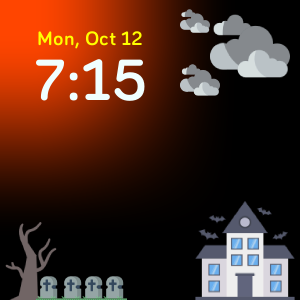
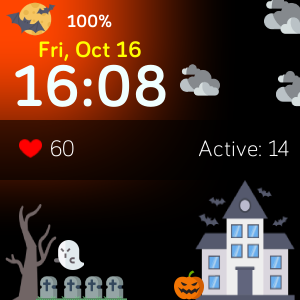
stats added to clock

diff --git a/app/index.js b/app/index.js
@@ -3,6 +3,7 @@ import document from "document";
 import { preferences } from "user-settings";
 import * as util from "../common/utils";
 
+
 // Update the clock every second
 clock.granularity = "seconds";
 
@@ -33,8 +34,21 @@ clock.ontick = (evt) => {
 
   
 }
-                                     
-                                       
+                                                                            
+//Handle the <Text> element, and the line
+const powerLabel = document.getElementById("powerLabel");
+
+//Refresh the battery, so that everything will work
+function refresh_myPower() {
+  //Show the current charge 
+  var power = battery.chargeLevel
+    powerLabel.text = power + "%"  
+         
+  }
+;
+
+setInterval(refresh_myPower, 1000);
+
 
 //HR sensor
 import { HeartRateSensor } from "heart-rate";
@@ -52,11 +66,101 @@ import * as util from "../common/utils";
 import { preferences } from "user-settings";
 import * as battery from "battery"
 
-
 //Text Elements
 let myHR = document.getElementById("myHR");
 let mySteps = document.getElementById("mySteps");
+let myCalories = document.getElementById("myCalories");
+let myAzm = document.getElementById("myAzm")
+let myFloors = document.getElementById("myFloors")
 let myTime = document.getElementById("myTime")
 let myDate = document.getElementById("myDate")
+let powerLabel = document.getElementById("powerLabel")
+
+//Cycle View JS
+import document from "document";
+
+// Get a handle on the cycleview
+const statsCyle = document.getElementById("statsCyle");
+
+// Get an array of cycle-items
+const items = statsCyle.getElementsByClassName("cycle-item");
+
+// How many items
+console.log(items.length);
+
+// Select a specific item by index
+statsCyle.value = 3;
+
+// Get the current selected item index
+console.log(statsCyle.value);
+
+// Hide a specific item by index
+items[2].style.display = "none";
 
 
+//--- Add step monitor
+function refresh_mySteps() {
+mySteps.text = "Steps: " + today.adjusted.steps
+  
+};
+
+setInterval(refresh_mySteps, 100); 
+
+// Add calories
+function refresh_myCalories() {
+  myCalories.text = "Calories: " + today.adjusted.calories 
+}; 
+
+setInterval(refresh_myCalories, 100);
+
+
+//Add floors
+function refresh_myelevationGain() {
+  myFloors.text = "Floors: " + today.adjusted.elevationGain 
+};
+
+setInterval(refresh_myelevationGain, 20);
+
+
+//Add HR-------------------
+var hrm = new HeartRateSensor();
+
+hrm.start();
+
+function refresh_myHR() {
+    myHR.text = hrm.heartRate ? hrm.heartRate : "--" ;
+  
+};
+
+setInterval(refresh_myHR, 50);
+
+
+//ACTIVE ZONE REQUEST PERMISSIONS
+import { me as appbit } from "appbit";
+import { primaryGoal } from "user-activity";
+
+if (appbit.permissions.granted("access_activity")) {
+   console.log(`User's primary activity goal is ${primaryGoal}`);
+}
+
+//AZM
+import { goals, today } from "user-activity";
+console.log(`${goals.activeZoneMinutes.total} activeZoneMinutes Goal`);
+
+goals.addEventListener("reachgoal", (evt) => {
+   if (today.adjusted.activeZoneMinutes.total >= goals.activeZoneMinutes.total)
+   {
+     // AZM Goal has been met
+  }
+});
+
+console.log(`${today.local.activeZoneMinutes.fatBurn}`);
+console.log(`${today.local.activeZoneMinutes.cardio}`);
+console.log(`${today.local.activeZoneMinutes.peak}`);
+console.log(`${today.adjusted.activeZoneMinutes.total}`);
+
+// REFRESH AZM
+function refresh_myAzm() {
+  myAzm.text = "Active: " + today.adjusted.activeZoneMinutes.total 
+};
+  setInterval(refresh_myAzm, 1000);

diff --git a/resources/styles.css b/resources/styles.css
@@ -8,16 +8,98 @@
   text-length: 32;
   text-anchor: middle;
   x: 30%;
-  y: 20%+40;
+  y: 22%+40;
   fill: azure;
 }
 
 #myDate {
-  font-size: 20;
+  font-size: 23;
   font-family: System-Bold;
   text-length: 32;
   text-anchor: middle;
   x: 30%;
-  y: 15%;
+  y: 19%;
   fill: yellow;
+}
+
+
+.application-fill           { fill: fb-black; }
+.foreground-fill            { fill: fb-white; }
+.background-fill            { fill: fb-black; }
+
+#container {
+  width: 100%;
+  height: 60;
+  x: 0;
+  y: 60%-60;
+} 
+
+#background {
+  width: 100%;
+  height: 100%;
+  opacity: 0.60;
+}
+
+#myHR {
+  font-size: 23;
+  font-family: System-Light;
+  text-length: 32;
+  text-anchor: start;
+  x: 20%-10;
+  y: 60%;
+  fill: white;
+  
+}
+
+#mySteps {
+  font-size: 23;
+  font-family: System-Light;
+  text-length: 32;
+  text-anchor: end;
+  x: 100%-10;
+  y: 60%;
+  fill: white;
+  
+}
+
+#myCalories {
+  font-size: 23;
+  font-family: System-Light;
+  text-length: 32;
+  text-anchor: end;
+  x: 100%-10;
+  y: 60%;
+  fill: white;
+  
+}
+
+#myFloors {
+  font-size: 23;
+  font-family: System-Light;
+  text-length: 32;
+  text-anchor: end;
+  x: 100%-10;
+  y: 60%;
+  fill: white;
+  
+}
+
+#myAzm {
+  font-size: 23;
+  font-family: System-Light;
+  text-length: 32;
+  text-anchor: end;
+  x: 100%-10;
+  y: 60%;
+  fill: white;
+  
+}
+
+
+.cycle-item text {
+  font-family: System-Light;
+  font-size: 22;
+  x: 100%-10;
+  text-anchor: end;
+  fill: white;
 }
